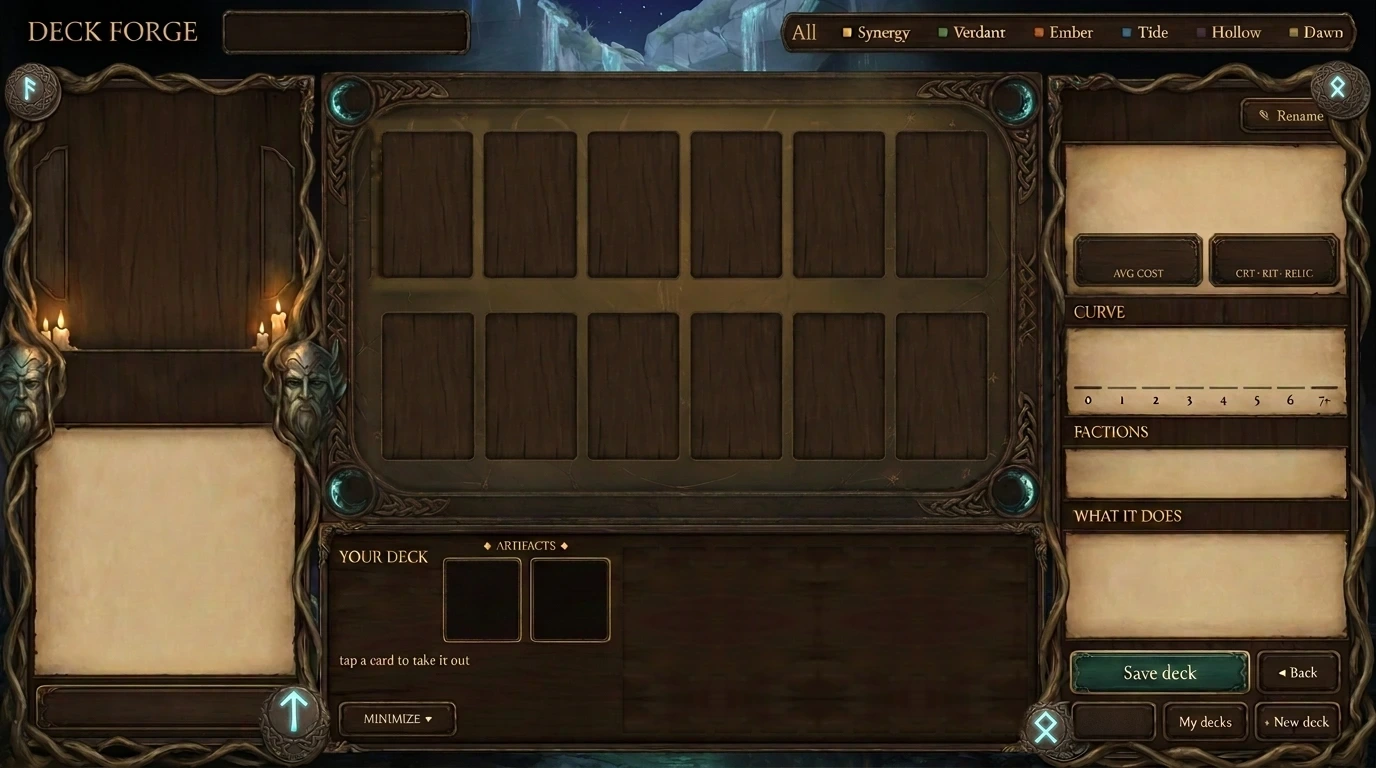
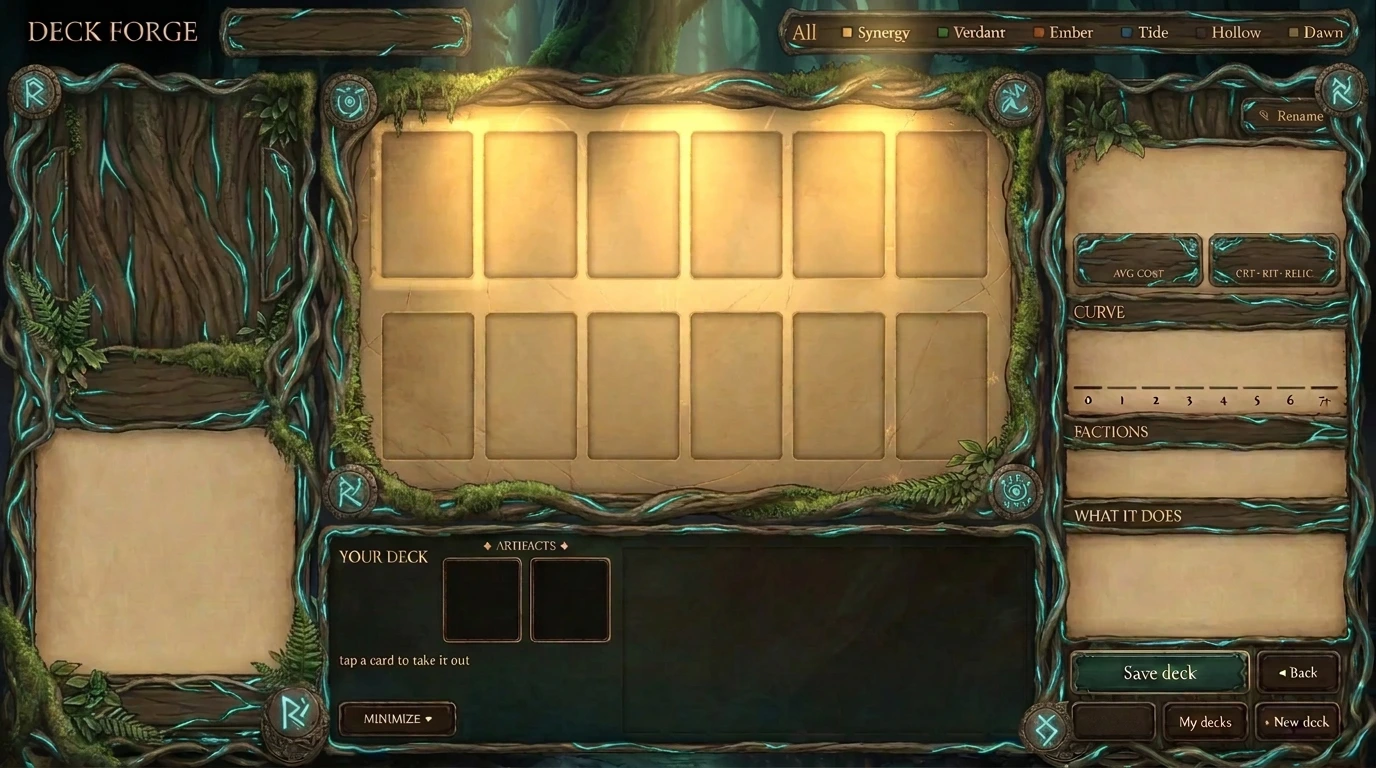
FABLE-102: Deck Forge on the Ancient Tree painting - gnarled mossy bark, ferns and a moonlit forest, cyan veins in the roots at the middle setting, the rune seals glowing
Claude-Session: https://claude.ai/code/session_01VNwHMtECA3drs76DyK6jbu

diff --git a/tools/plate_fix_avg_cost_102.py b/tools/plate_fix_avg_cost_102.py
@@ -1,0 +1,25 @@
+import numpy as np, cv2, sys
+from PIL import Image
+for f in sys.argv[1:]:
+    a=np.array(Image.open(f).convert('RGB')).astype(np.float32)
+    lum=a.mean(2)
+    # R box in plate coords
+    x0,y0,x1,y1=1152,268,1159,278
+    box=lum[y0:y1,x0:x1]; bg=np.percentile(box,25); fg=np.percentile(box,97)
+    txtcol=a[y0:y1,x0:x1][box>=np.percentile(box,92)].mean(0)
+    # erase R by inpaint of its bright pixels (dilated)
+    m=np.zeros(lum.shape,np.uint8); m[y0:y1,x0:x1]=(box>bg+(fg-bg)*0.35).astype(np.uint8)*255
+    m=cv2.dilate(m,np.ones((3,3),np.uint8)); m[:,1159:]=0
+    a=cv2.inpaint(a.astype(np.uint8),m,3,cv2.INPAINT_TELEA).astype(np.float32)
+    # S from FACTIONS
+    sx0,sy0,sx1,sy1=1141,425,1149,438
+    s=lum[sy0:sy1,sx0:sx1]; sb,sf=np.percentile(s,15),np.percentile(s,97)
+    al=np.clip((s-sb)/(sf-sb),0,1)
+    h=8; w=max(5,round(al.shape[1]*h/al.shape[0]*1.1))
+    al=np.clip(cv2.resize(al,(w,h),interpolation=cv2.INTER_AREA)*1.35,0,1)
+    # place S where R was: left edge of R, baseline aligned
+    ty=270; tx=1153
+    reg=a[ty:ty+h,tx:tx+w]
+    a[ty:ty+h,tx:tx+w]=reg*(1-al[...,None]*1.0)+txtcol*al[...,None]*1.0
+    Image.fromarray(np.clip(a,0,255).astype(np.uint8)).save(f)
+    print(f,'S',w,h)

diff --git a/tools/plate_dial_cyan_102.py b/tools/plate_dial_cyan_102.py
@@ -1,0 +1,17 @@
+import numpy as np, sys
+from PIL import Image, ImageFilter
+src, out, k = sys.argv[1], sys.argv[2], float(sys.argv[3])
+im = Image.open(src).convert('RGB'); a = np.array(im).astype(np.float32)
+h = np.array(im.convert('HSV')).astype(np.float32)
+hue, sat, val = h[...,0], h[...,1]/255, h[...,2]/255
+# soft cyan weight: hue around 128 (cyan) +-28, ramps with saturation
+hw = np.clip(1 - np.abs(hue-125)/30, 0, 1)
+w = hw * np.clip((sat-0.25)/0.35, 0, 1) * np.clip((val-0.15)/0.25, 0, 1)
+w = np.array(Image.fromarray((w*255).astype(np.uint8)).filter(ImageFilter.GaussianBlur(1.2))).astype(np.float32)/255
+lum = (a*[0.3,0.59,0.11]).sum(2, keepdims=True)
+wood = np.concatenate([lum*1.05, lum*0.92, lum*0.72], 2) * 0.62   # dim warm wood tone the veins fade into
+target = a*(1-k) + wood*k
+o = a*(1-w[...,None]) + target*w[...,None]
+Image.fromarray(np.clip(o,0,255).astype(np.uint8)).save(out)
+hh = np.array(Image.open(out).convert('HSV')).astype(float); m=(hh[...,0]>110)&(hh[...,0]<145)&(hh[...,1]>90)&(hh[...,2]>90)
+print(out, 'k', k, 'cyan %.2f%%' % (100*m.mean()))
